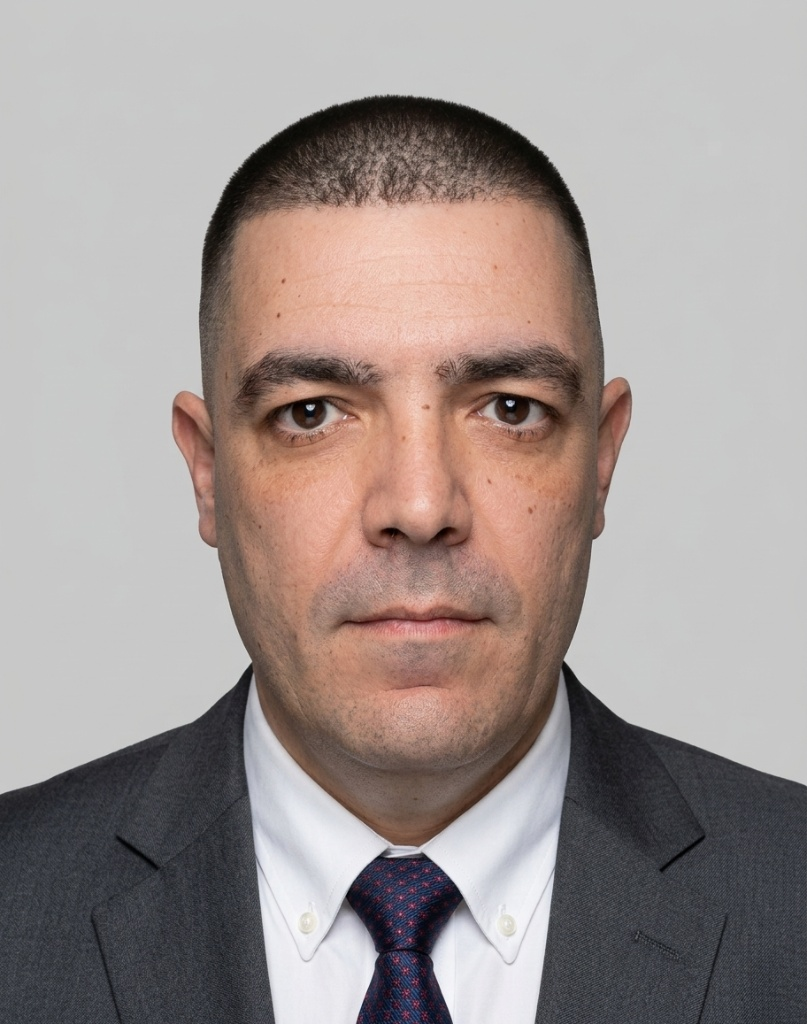
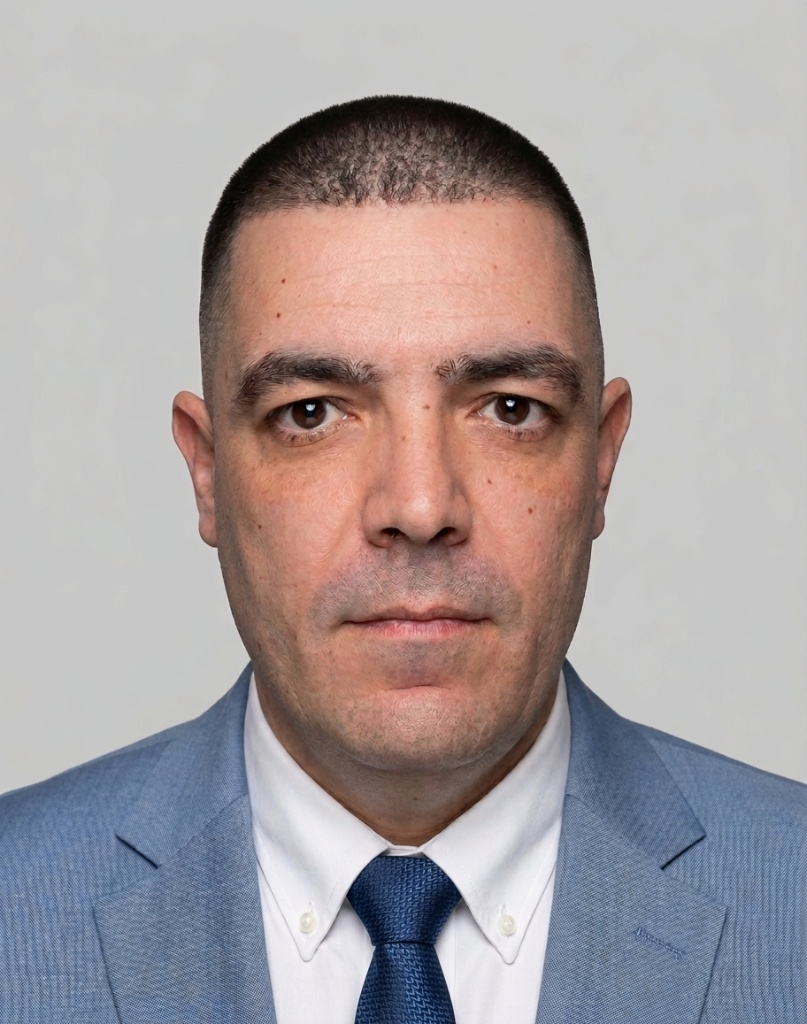
Add files via upload

diff --git a/index.html b/index.html
@@ -10,11 +10,14 @@
     <meta property="og:title" content="Home | Ivaylo Tsvetkov">
     <meta property="og:description" content="Professional portfolio of Ivaylo Tsvetkov featuring front-end work, cyber security awareness, case studies, and polished digital presentation.">
     <meta property="og:type" content="website">
-    <meta property="og:image" content="ivaylo-main.jpg">
+    <meta property="og:image" content="https://ivaylo-tsvetkov.com/ivaylo-seo.jpg">
+    <meta property="og:image:width" content="1536">
+    <meta property="og:image:height" content="1024">
+    <meta property="og:image:type" content="image/jpeg">
     <meta name="twitter:card" content="summary_large_image">
     <meta name="twitter:title" content="Home | Ivaylo Tsvetkov">
     <meta name="twitter:description" content="Professional portfolio of Ivaylo Tsvetkov featuring front-end work, cyber security awareness, case studies, and polished digital presentation.">
-    <meta name="twitter:image" content="ivaylo-main.jpg">
+    <meta name="twitter:image" content="https://ivaylo-tsvetkov.com/ivaylo-seo.jpg">
     <link rel="icon" type="image/svg+xml" href="favicon.svg">
     <link rel="stylesheet" href="site-shell.css">
     <title>Home | Ivaylo Tsvetkov</title>
@@ -555,7 +558,7 @@
             }
 
             .hero {
-                padding: 28px 0 24px;
+                padding: 36px 0 24px;
             }
 
             .hero-copy,
@@ -831,7 +834,7 @@
         <div class="container header-flex">
             <div class="header-top">
                 <a href="index.html" class="logo">IVAYLO TSVETKOV</a>
-                <button class="nav-toggle" type="button" aria-expanded="false" aria-controls="site-nav">Menu</button>
+                <button class="nav-toggle" type="button" aria-expanded="false" aria-controls="site-nav" onclick="var nav=document.getElementById('site-nav'); if(!nav) return false; var open=nav.classList.toggle('nav-open'); this.setAttribute('aria-expanded', String(open)); return false;">Menu</button>
             </div>
             <nav id="site-nav">
                 <ul class="nav-links">
@@ -840,6 +843,7 @@
                     <li><a href="portfolio.html">Portfolio</a></li>
                     <li><a href="blog.html">Blog</a></li>
                     <li><a href="news.html">News</a></li>
+                    <li><a href="fitness.html">Fitness</a></li>
                     <li><a href="contact.html">Contact</a></li>
                     <li><button class="lang-switch" onclick="toggleLanguage()"><span id="lang-text">BG</span></button></li>
                 </ul>
@@ -1031,25 +1035,23 @@
                 btn.innerText = lang === 'en' ? 'BG' : 'EN';
             }
         }
-
-        document.addEventListener('DOMContentLoaded', function () {
-            var navToggle = document.querySelector('.nav-toggle');
-            var nav = document.getElementById('site-nav');
-
-            if (!navToggle || !nav) {
-                return;
-            }
-
-            navToggle.addEventListener('click', function () {
-                var isOpen = nav.classList.toggle('nav-open');
-                navToggle.setAttribute('aria-expanded', String(isOpen));
-            });
-        });
     </script>
     <script type="text/javascript" src="https://translate.google.com/translate_a/element.js?cb=googleTranslateElementInit"></script>
-    <script src="site-enhancements.js"></script>
+    <script>
+window.toggleMenu = window.toggleMenu || function () {
+    var nav = document.getElementById('site-nav');
+    var btn = document.querySelector('.nav-toggle');
+    if (!nav || !btn) return false;
+    var open = nav.classList.toggle('nav-open');
+    btn.setAttribute('aria-expanded', String(open));
+    return open;
+};
+</script>
+<script src="site-enhancements.js"></script>
 </body>
 </html>
+
+
 
 
 

diff --git a/intro1.html b/intro1.html
@@ -1,6 +1,18 @@
 <!DOCTYPE html>
 <html lang="en">
 <head>
+<meta name="description" content="Ivaylo Tsvetkov portfolio: front-end work, technical awareness, project delivery, and digital case studies."/>
+<meta property="og:title" content="Welcome to NewsPulse+ | News Pulse+"/>
+<meta property="og:description" content="Ivaylo Tsvetkov portfolio: front-end work, technical awareness, project delivery, and digital case studies."/>
+<meta property="og:type" content="website"/>
+<meta property="og:image" content="https://ivaylo-tsvetkov.com/ivaylo-seo.jpg"/>
+<meta property="og:image:width" content="1536"/>
+<meta property="og:image:height" content="1024"/>
+<meta property="og:image:type" content="image/jpeg"/>
+<meta name="twitter:card" content="summary_large_image"/>
+<meta name="twitter:title" content="Welcome to NewsPulse+ | News Pulse+"/>
+<meta name="twitter:description" content="Ivaylo Tsvetkov portfolio: front-end work, technical awareness, project delivery, and digital case studies."/>
+<meta name="twitter:image" content="https://ivaylo-tsvetkov.com/ivaylo-seo.jpg"/>
   <meta charset="UTF-8" />
   <meta name="viewport" content="width=device-width, initial-scale=1.0" />
   <title>Welcome to NewsPulse+ | News Pulse+</title>

diff --git a/intro.html b/intro.html
@@ -1,4 +1,4 @@
-<!DOCTYPE html>
+<!DOCTYPE html>
 <html lang="en">
 <head>
   <meta charset="UTF-8">
@@ -10,11 +10,14 @@
     <meta property="og:title" content="Welcome | Rap Stories">
     <meta property="og:description" content="Enter Rap Stories, an editorial-style digital experience exploring hip-hop artists, culture, and storytelling.">
     <meta property="og:type" content="website">
-    <meta property="og:image" content="ivaylo-main.jpg">
+    <meta property="og:image" content="https://ivaylo-tsvetkov.com/ivaylo-seo.jpg">
+    <meta property="og:image:width" content="1536">
+    <meta property="og:image:height" content="1024">
+    <meta property="og:image:type" content="image/jpeg">
     <meta name="twitter:card" content="summary_large_image">
     <meta name="twitter:title" content="Welcome | Rap Stories">
     <meta name="twitter:description" content="Enter Rap Stories, an editorial-style digital experience exploring hip-hop artists, culture, and storytelling.">
-    <meta name="twitter:image" content="ivaylo-main.jpg">
+    <meta name="twitter:image" content="https://ivaylo-tsvetkov.com/ivaylo-seo.jpg">
     <link rel="icon" type="image/svg+xml" href="favicon.svg">
     <link rel="stylesheet" href="site-shell.css">
   <title>Welcome | Rap Stories</title>

diff --git a/n1.html b/n1.html
@@ -1,4 +1,4 @@
-<!DOCTYPE html>
+<!DOCTYPE html>
 <html lang="en">
 <head>
     <meta charset="UTF-8">
@@ -9,11 +9,14 @@
     <meta property="og:title" content="Lil Durk: Chicago Origins, Loss and Lasting Influence | Rap Stories">
     <meta property="og:description" content="Lil Durk grew from Chicago hardship into one of modern rap's most emotionally resonant voices, bridging drill intensity with melody, grief, and endurance.">
     <meta property="og:type" content="article">
-    <meta property="og:image" content="n1a.jpg">
+    <meta property="og:image" content="https://ivaylo-tsvetkov.com/ivaylo-seo.jpg">
+    <meta property="og:image:width" content="1536">
+    <meta property="og:image:height" content="1024">
+    <meta property="og:image:type" content="image/jpeg">
     <meta name="twitter:card" content="summary_large_image">
     <meta name="twitter:title" content="Lil Durk: Chicago Origins, Loss and Lasting Influence | Rap Stories">
     <meta name="twitter:description" content="Lil Durk grew from Chicago hardship into one of modern rap's most emotionally resonant voices, bridging drill intensity with melody, grief, and endurance.">
-    <meta name="twitter:image" content="n1a.jpg">
+    <meta name="twitter:image" content="https://ivaylo-tsvetkov.com/ivaylo-seo.jpg">
     <link rel="icon" type="image/svg+xml" href="favicon.svg">
     <link rel="stylesheet" href="site-shell.css">
     <title>Lil Durk: Chicago Origins, Loss and Lasting Influence | Rap Stories</title>